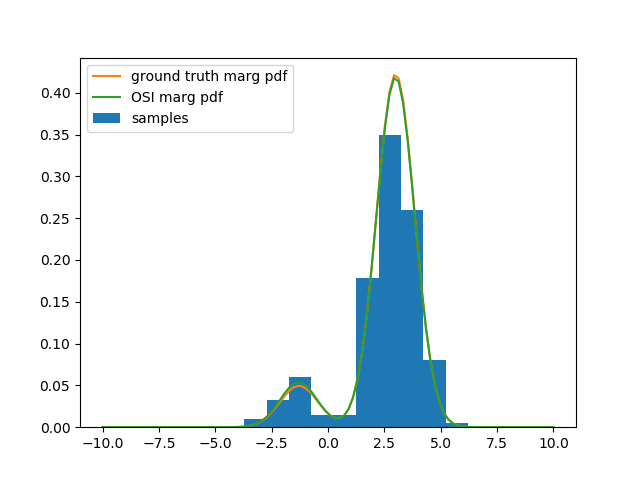
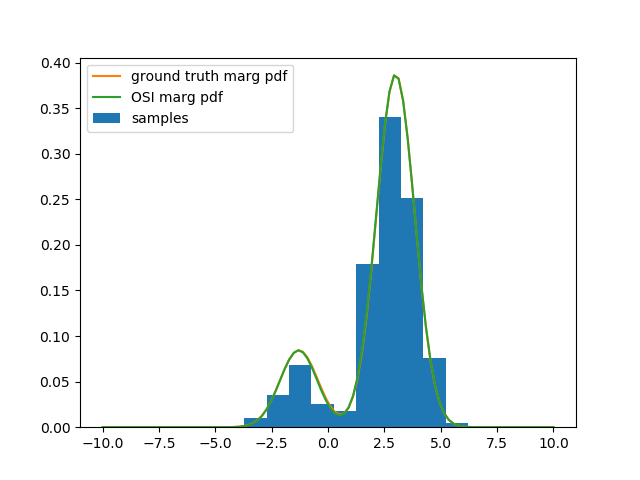
rerun with disc MLNPotential, still good results (osi final bfe = 1.94031, true -logZ = 1.9399); no longer limit number of cores for tensorflow

diff --git a/osi/hybrid_mln_test_0.py b/osi/hybrid_mln_test_0.py
@@ -40,7 +40,7 @@ factors = [F(nb=(rvs[0], rvs[2], rvs[3]),
              # potential=MLNPotential(lambda x: (1 - x[0]) * eq_op(x[1], 4.) + x[0] * eq_op(x[1], x[2]), w=0.2)),
              potential=MLNPotential(lambda x: (1 - x[0]) * eq_op(x[1], 8.) + x[0] * eq_op(x[1], -7.), w=0.2)),
            # F(nb=(rvs[0], rvs[1]), potential=MLNPotential(lambda x: imp_op(x[0] * x[1], x[2]), w=1)),
-           # F(nb=(rvs[0], rvs[1]), potential=MLNPotential(lambda x: and_op(x[0], x[1]), w=1)),
+           F(nb=(rvs[0], rvs[1]), potential=MLNPotential(lambda x: and_op(x[0], x[1]), w=1)),
            # F(nb=(rvs[2],), potential=QuadraticPotential(A=-0.5 * np.ones([1, 1]), b=np.zeros([1]), c=0.))
            F(nb=(rvs[2], rvs[3]), potential=QuadraticPotential(A=-0.5 * np.eye(2), b=np.array([1., 2.]), c=0.))
            # ensure normalizability

diff --git a/osi/config.py b/osi/config.py
@@ -4,4 +4,5 @@ num_threads = 1
 tfconfig = tf.ConfigProto()
 tfconfig.intra_op_parallelism_threads = num_threads
 tfconfig.inter_op_parallelism_threads = num_threads
-# tfconfig = None
+
+tfconfig = None  # no limit on number of cores (default)
